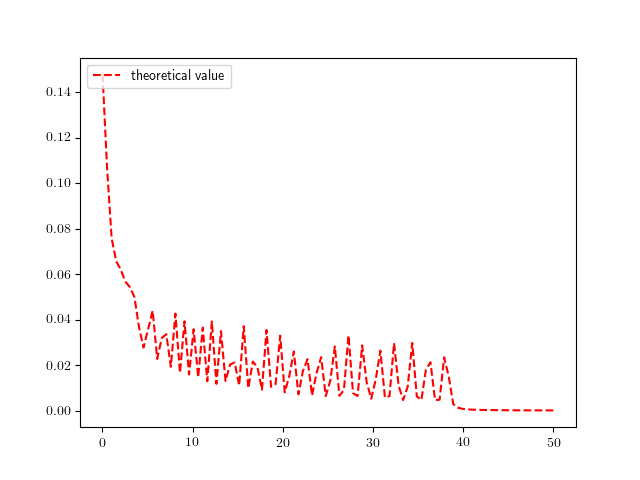
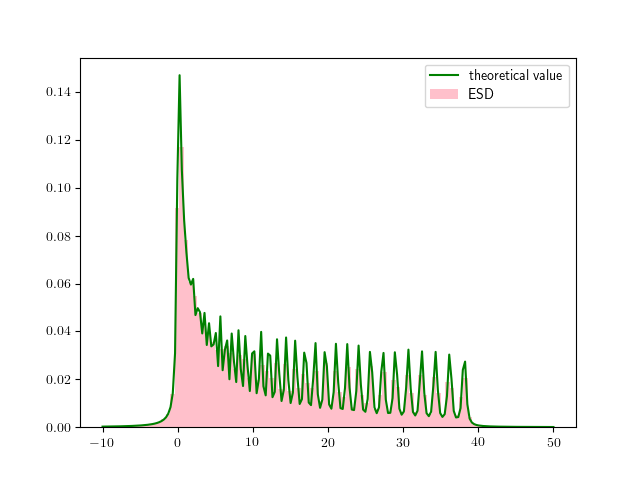
unstable for large norm

diff --git a/demo_plots.py b/demo_plots.py
@@ -1,0 +1,85 @@
+import numpy as np
+import scipy as sp
+
+from scipy import stats
+from matrix_util import *
+from random_matrices import *
+import matplotlib.pyplot as plt
+from timer import Timer
+
+
+from demo_cauchy import *
+
+num_shot = 200
+
+dim = 40
+p_dim = 240
+sigma = 0.1
+min_x = -5
+max_x = 20
+diag_A = np.arange(dim)/10
+A = rectangular_diag(diag_A,p_dim, dim)
+
+scale = 1e-1
+plot_density(A, sigma,scale, min_x, max_x, \
+num_shot=num_shot,jobname="40by240")
+
+
+dim = 64
+p_dim = dim
+scale = 1e-4
+sigma = 0.1
+min_x = -0.1
+max_x = 0.1
+diag_A = np.zeros(dim)
+A = rectangular_diag(diag_A,p_dim, dim)
+num_shot = 200
+plot_density(A, sigma,scale, min_x, max_x, \
+num_shot=num_shot,jobname="MP")
+
+
+
+dim = 64
+p_dim = dim
+scale = 1e-4
+sigma = 0.1
+min_x = -1
+max_x = 2
+diag_A = np.ones(dim)
+A = rectangular_diag(diag_A,p_dim, dim)
+num_shot = 200
+plot_density(A, sigma,scale, min_x, max_x, \
+num_shot=num_shot,jobname="identity")
+
+
+
+dim = 64
+p_dim = dim
+scale = 1e-4
+sigma = 0.1
+min_x = -0.1
+max_x = 0.5
+a = 5*np.ones(dim)
+half = int(dim/2)
+for i in range(half):
+    a[i] =  2
+diag_A = a/10
+A = rectangular_diag(diag_A,p_dim, dim)
+num_shot = 200
+plot_density(A, sigma,scale, min_x, max_x, \
+num_shot=num_shot,jobname="2-5")
+
+
+
+dim = 64
+p_dim = dim
+scale = 1e-4
+sigma = 0.1
+min_x = -0.25
+max_x = 1
+a = np.arange(64) + 1
+diag_A = a/80
+A = rectangular_diag(diag_A,p_dim, dim)
+num_shot = 200
+plot_density(A, sigma,scale, min_x, max_x, \
+num_shot=num_shot,jobname="64")

diff --git a/demo_cauchy.py b/demo_cauchy.py
@@ -16,13 +16,18 @@ from fde_sc_c2 import SemiCircular as SC ###for rectanglar
 
 
 
-def plot_density(A, sigma, scale, min_x=0.01, max_x=100, num_pt=200,\
- dim_cauchy_vec=100, num_shot=0,\
- jobname="sample_and_DE"):
+def plot_density(A, sigma, scale=1e-9, min_x=-10, max_x=100, num_pt=200,\
+ dim_cauchy_vec=10, num_shot=0,\
+ jobname="ESD_and_density"):
+
     ### Compute singular_values of parameter
     p_dim = A.shape[0]
     dim = A.shape[1]
     _,diag_A,_ = np.linalg.svd(A)
+
+
+
+
     true_sc = SC(dim=dim, p_dim = p_dim, scale=scale)
     true_sc.set_params(diag_A,sigma)
 
@@ -32,13 +37,14 @@ def plot_density(A, sigma, scale, min_x=0.01, max_x=100, num_pt=200,\
 
     plt.figure()
     plt.rc("text", usetex=True)
+    ### Plot histgram of ESD
     if num_shot>0:
         sample = true_sc.ESD(num_shot=num_shot,dim_cauchy_vec=dim_cauchy_vec)
-        plt.hist(sample, range=(min_x, max_x), bins=100, normed=True, label="sampling from true model \n perturbed by cauchy($0,\gamma$)",color="pink")
+        plt.hist(sample, range=(min_x, max_x), bins=100, normed=True, label="ESD",color="pink")
 
-    plt.plot(x_array, true_density, linestyle="--", label="theoretical value", color="red")
+    plt.plot(x_array, true_density, label="theoretical value", color="green")
 
-    plt.legend(loc="upper left")
+    plt.legend(loc="upper right")
     dirname = "images/plot_density"
     if not os.path.exists(dirname):
         os.makedirs(dirname)

diff --git a/tests/test_cauchy_demo.py b/tests/test_cauchy_demo.py
@@ -7,16 +7,22 @@ from demo_cauchy import *
 class TestCauchyDemo(unittest.TestCase):
     def test_plot_density(self):
         dim = 40
-        p_dim = 40
+        p_dim = 240
         scale = 0.2
         sigma = 0.1
+        min_x = -10
+        max_x = 50
         diag_A = np.arange(dim)/sp.sqrt(dim)
         A = rectangular_diag(diag_A,p_dim, dim)
-        plot_density(A, sigma,scale,jobname="only_density")
+
+        plot_density(A, sigma,scale, min_x, max_x,\
+        jobname="only_density")
+
         dim_cauchy_vec = 100
-        min_x = 0.01
-        max_x = 50
         num_shot = 1
-        plot_density(A, sigma,scale, min_x, max_x, dim_cauchy_vec, num_shot,jobname="single_shot")
+        plot_density(A, sigma,scale, min_x, max_x, \
+        dim_cauchy_vec=dim_cauchy_vec,  num_shot=num_shot,jobname="single_shot")
+
         num_shot = 100
-        plot_density(A, sigma,scale, min_x, max_x, dim_cauchy_vec, num_shot,jobname="multi_shot")
+        plot_density(A, sigma,scale, min_x, max_x, \
+        dim_cauchy_vec=dim_cauchy_vec,  num_shot=num_shot,jobname="multi_shot")

diff --git a/fde_sc_c2.py b/fde_sc_c2.py
@@ -258,7 +258,7 @@ class SemiCircular(object):
             if flag:
                 return G
         #logging.info("cauchy_2by2: sub = {} @ iter= {}".format(np.linalg.norm(sub),d))
-        loggin.info("cauchy_2by2: reahed max_iter")
+        logging.info("cauchy_2by2: reahed max_iter")
         return G_init
 
 
